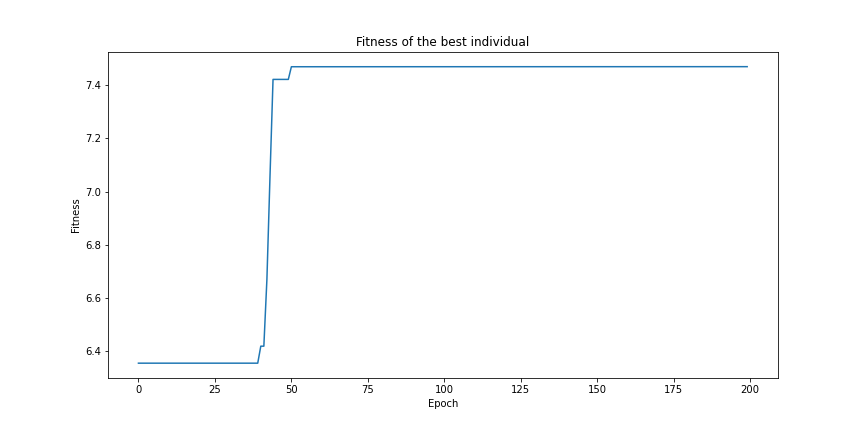
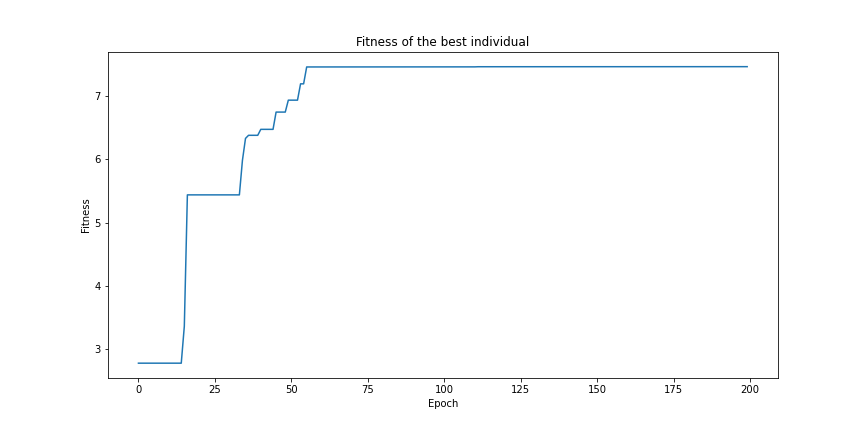
correct mutate function

diff --git a/ga.py b/ga.py
@@ -100,7 +100,7 @@ class Evolution:
         parents = self.population.get_parents(self.pop_parameters['n_parents'])
         offspring = self.population.crossover(parents)
         mutation = self.population.mutate(offspring, self.ind_parameters,
-                                          self.population_class)
+                                          self.pop_parameters)
         population_values = [
             self.population.individuals[i].get_values()
             for i in range(self.population.size)
